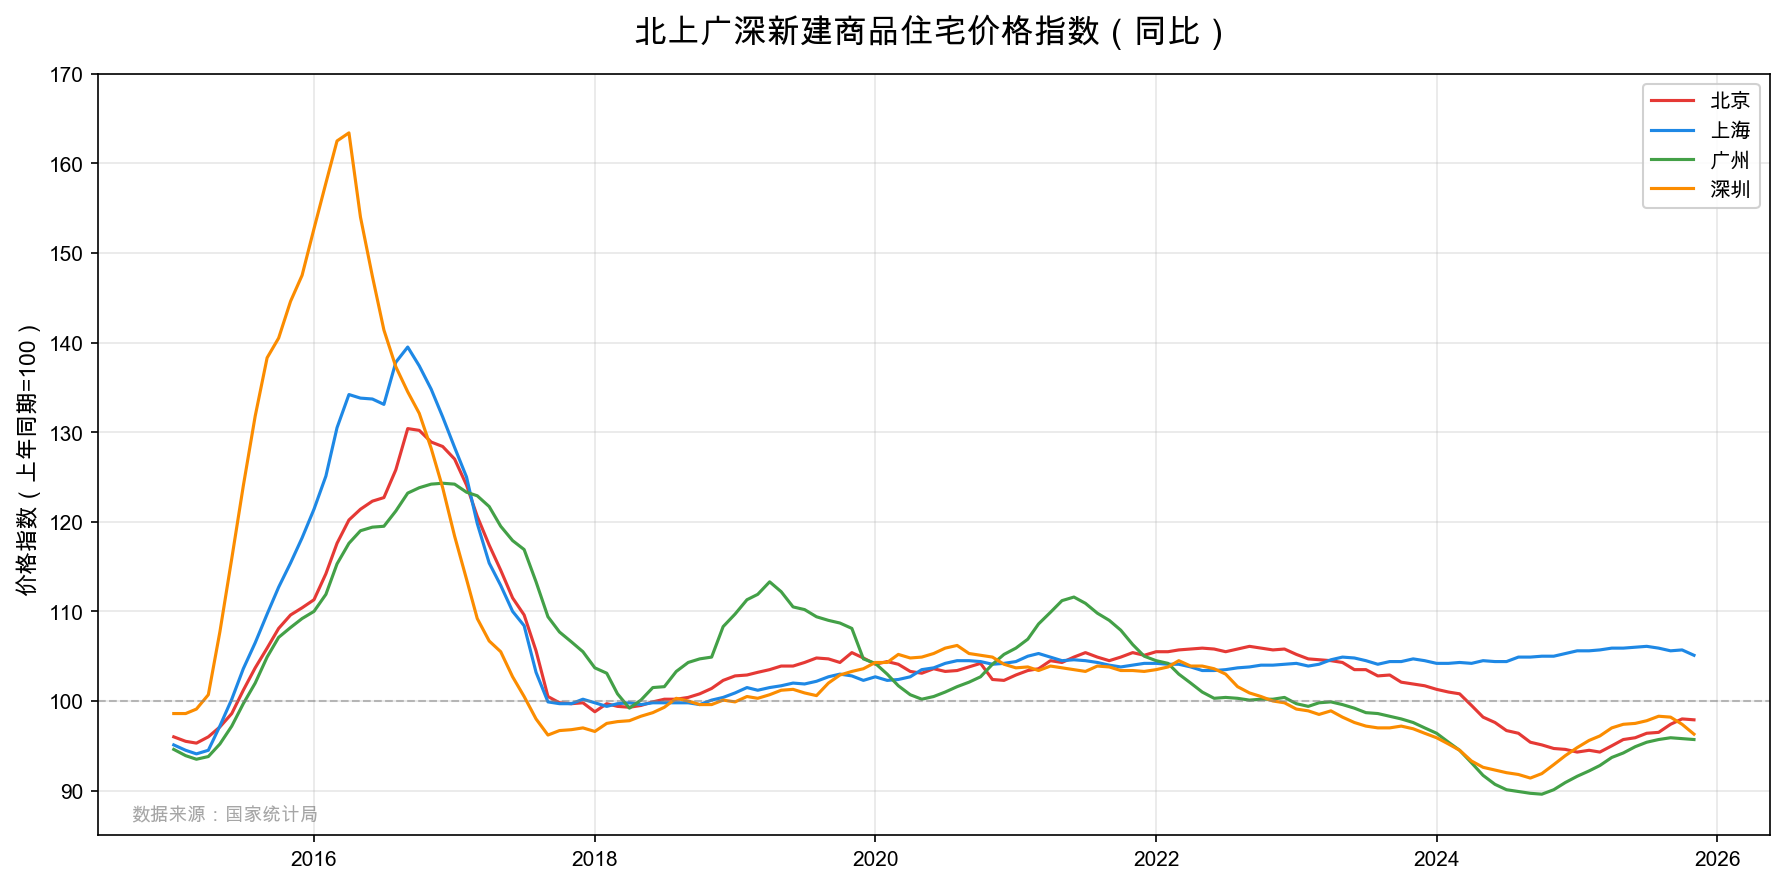
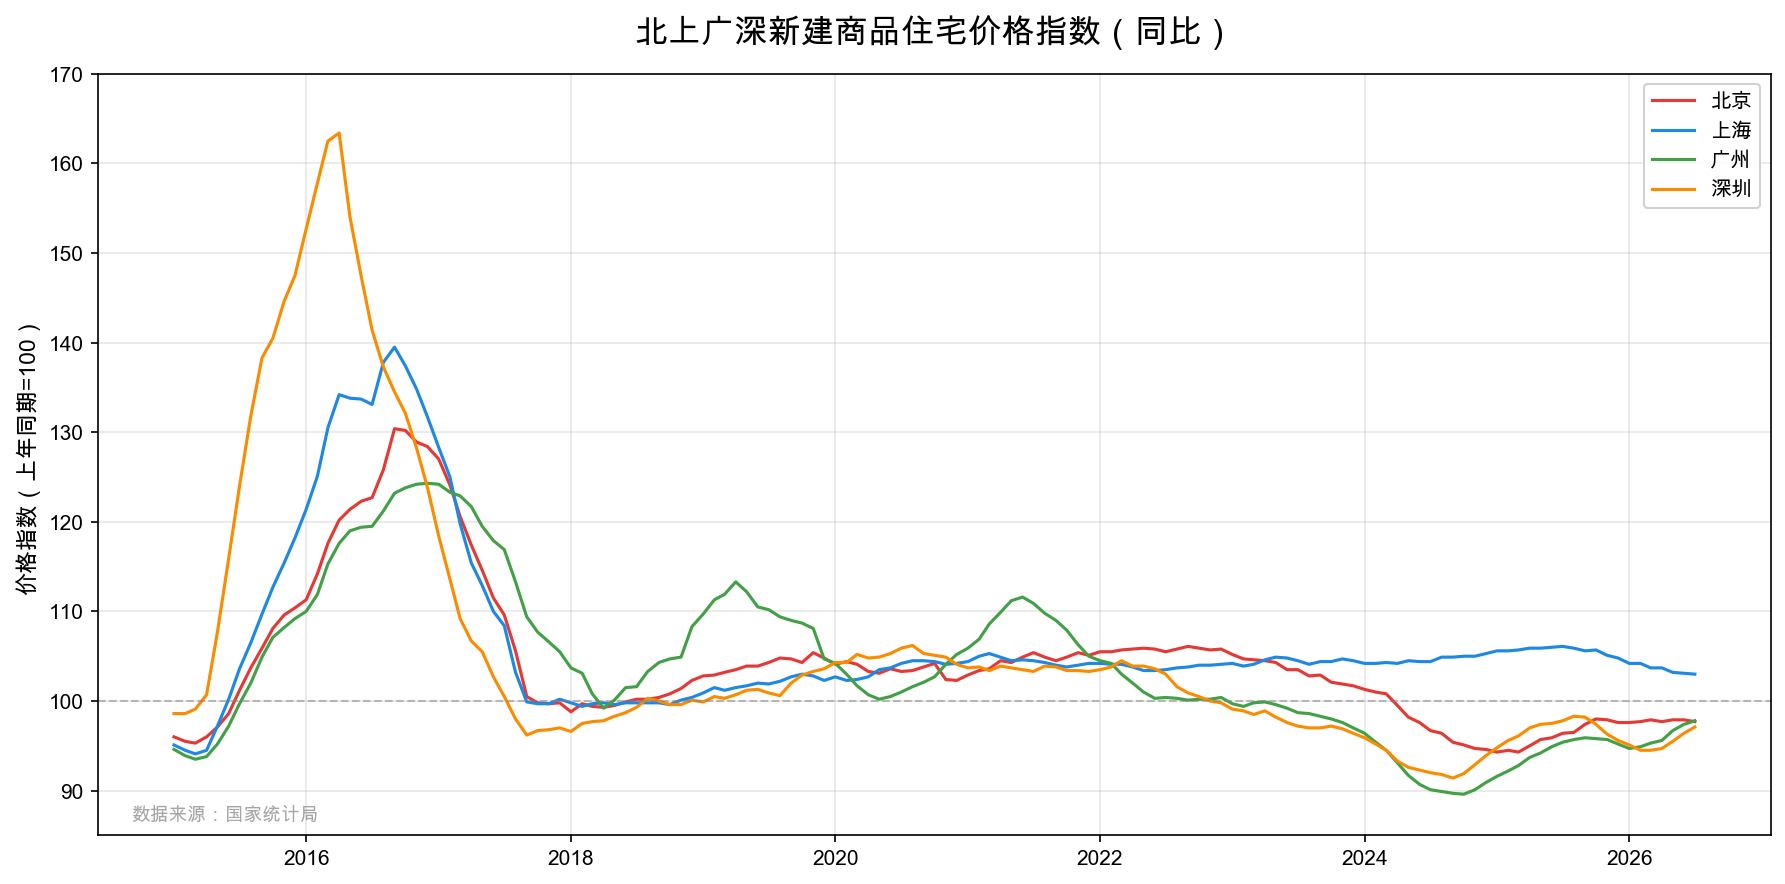
chore(数据): 更新70城房价数据至2026年7月

diff --git a/README.md b/README.md
@@ -1,6 +1,6 @@
 # 70城房价数据 | China 70-City House Price Index
 
-[![数据更新](https://img.shields.io/badge/数据更新至-2026年6月-blue)]()
+[![数据更新](https://img.shields.io/badge/数据更新至-2026年7月-blue)]()
 [![城市数量](https://img.shields.io/badge/城市-70个大中城市-green)]()
 [![时间跨度](https://img.shields.io/badge/时间跨度-2006至今-orange)]()
 [![License: MIT](https://img.shields.io/badge/license-MIT-lightgrey)](./LICENSE)
@@ -57,7 +57,7 @@
 
 ```
 70cityprice/
-├── 70cityprice.csv         # 主数据文件（2006年至今，当前更新至2026年6月）
+├── 70cityprice.csv         # 主数据文件（2006年至今，当前更新至2026年7月）
 ├── README.md               # 项目说明文档（面向人类读者）
 ├── SKILL.md                # AI 协作入口：数据心智模型与流程索引
 ├── AGENTS.md               # 仓库级 AI 说明（CLAUDE.md 导入此文件）
